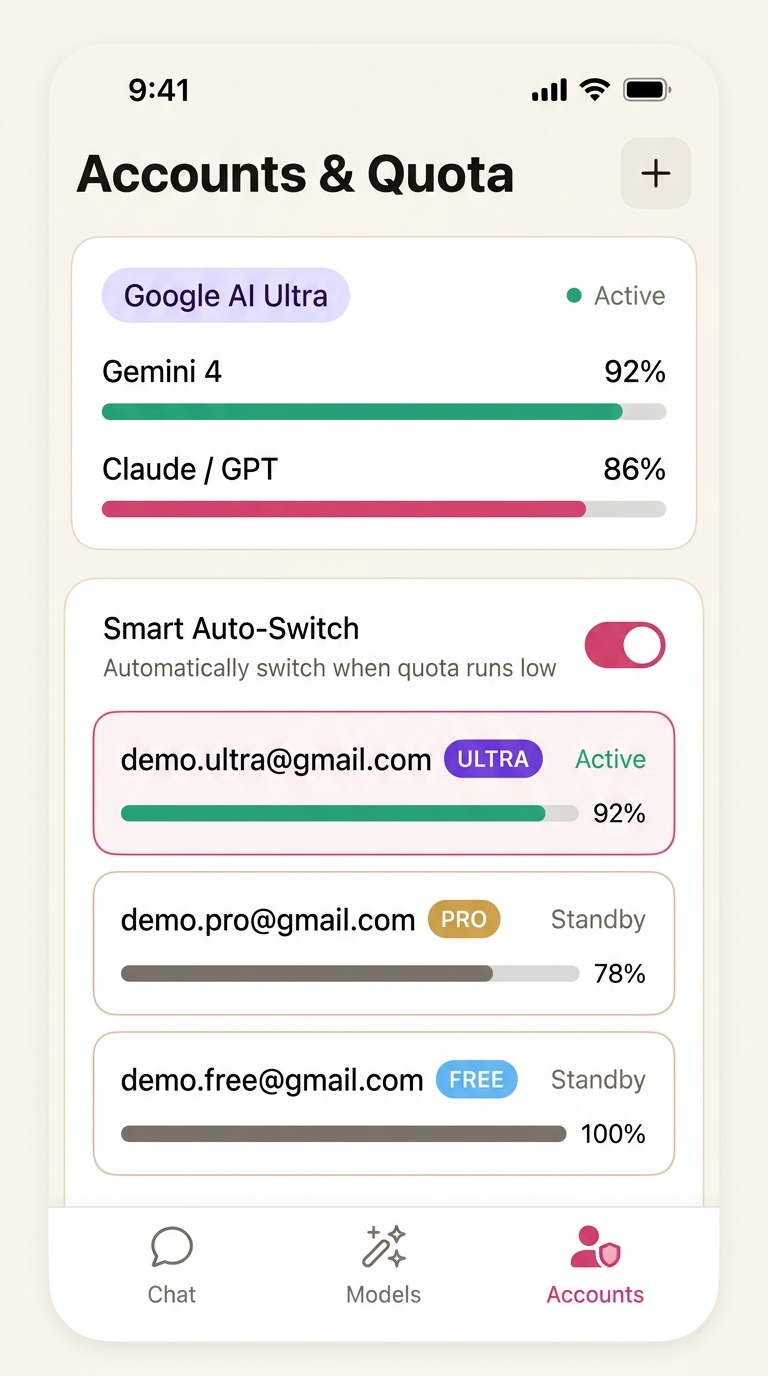
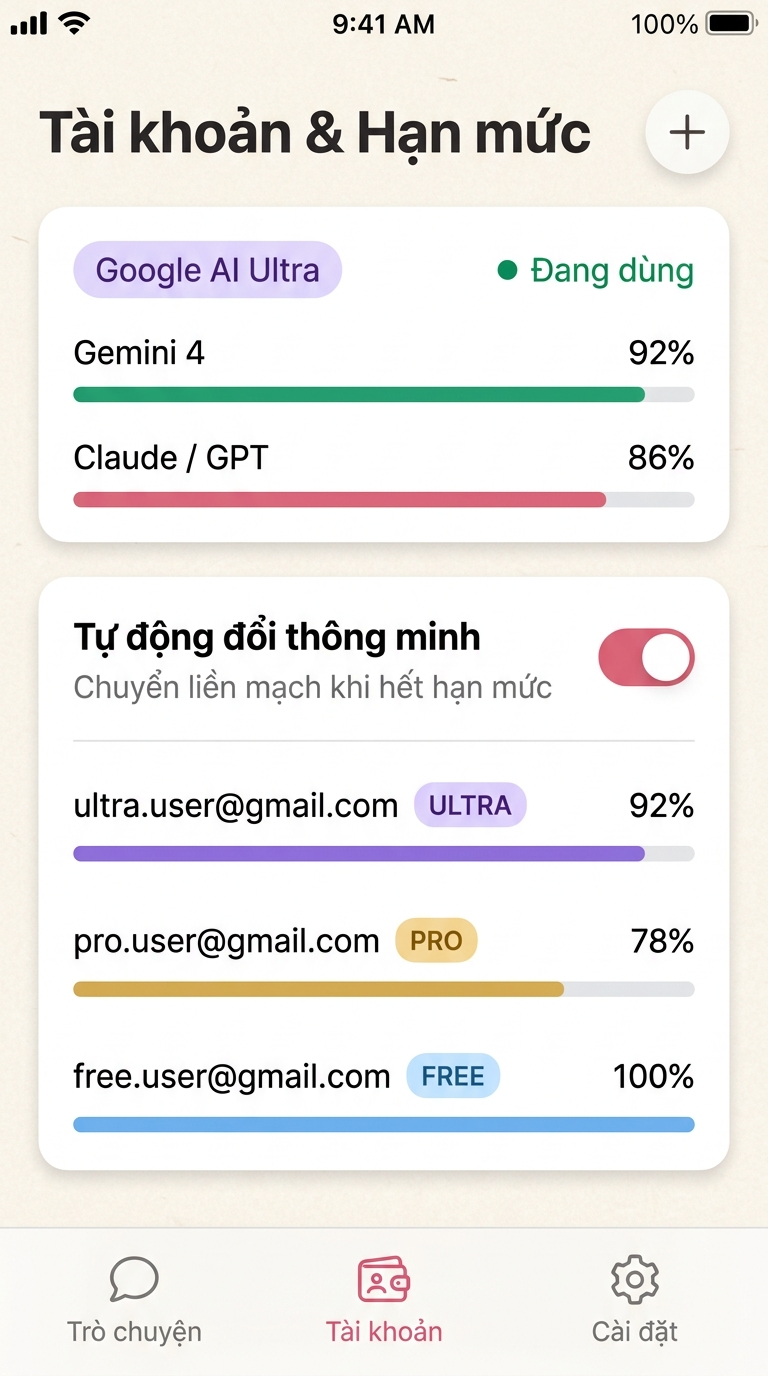
Release AnTiCLICode v4.2.0 (Build 22): Đổi tên sang AnTiCLICode, làm mới nội dung & phát hành thêm iPhone IPA (iOS 12+)

diff --git a/README.md b/README.md
@@ -1,76 +1,130 @@
 <div align="center">
 
-# ✨ Koda — Trợ Lý AI Di Động Cho Người Mới & Tự Động Đổi Tài Khoản Thông Minh
+<img src="screenshots/00-hero-anticlicode.jpg" alt="AnTiCLICode — Android & iOS 12+ Smart Multi-Account AI" width="100%" />
 
-**Cài đặt 1 chạm bằng tệp APK • Chạy độc lập không cần Termux • Không bị ngắt quãng hạn mức • Hỗ trợ 11 Ngôn ngữ • Mượt 60fps**
+<br />
 
-[![Tải APK v4.1.1](https://img.shields.io/badge/Tải_ngay-APK_v4.1.1_(9.29_MB)-D64572?style=for-the-badge&logo=android&logoColor=white)](https://github.com/sieudich/koda-ai-mobile/releases/download/v4.1.1/antigravity-code-mobile.apk)
-[![Android 7.0+](https://img.shields.io/badge/Android-7.0%2B_(ARM64)-16A34A?style=for-the-badge&logo=android&logoColor=white)](#hướng-dẫn-tải--cài-đặt-nhanh-3-bước)
-[![11 Ngôn ngữ](https://img.shields.io/badge/Ngôn_ngữ-11_Ngôn_ngữ-2563EB?style=for-the-badge)](#tính-năng-chính-của-ứng-dụng)
-[![Closed Source](https://img.shields.io/badge/Bản_quyền-Đóng_nguồn_•_Chỉ_APK-1E1A18?style=for-the-badge)](#bản-quyền--bảo-vệ-thành-phẩm)
+# ⚡ AnTiCLICode — Trợ Lý AI & Lập Trình Di Động Không Ngắt Quãng
+
+### **Cài đặt 1 chạm cho cả Android & iPhone (từ iPhone 6 iOS 12+) • Tự động đổi tài khoản thông minh 24/7 • Không cần Termux**
+
+<p>
+  <a href="https://github.com/sieudich/AnTiCLICode/releases/download/v4.2.0/antigravity-code-mobile.apk">
+    <img src="https://img.shields.io/badge/Tải_Android_APK-v4.2.0_(9.29_MB)-D64572?style=for-the-badge&logo=android&logoColor=white" alt="Tải AnTiCLICode Android APK" />
+  </a>
+  <a href="https://github.com/sieudich/AnTiCLICode/releases/download/v4.2.0/AnTiCLICode-iOS12+.ipa">
+    <img src="https://img.shields.io/badge/Tải_iPhone_IPA-iOS_12.0%2B_(16.98_MB)-111827?style=for-the-badge&logo=apple&logoColor=white" alt="Tải AnTiCLICode iPhone IPA" />
+  </a>
+</p>
+
+<p>
+  <img src="https://img.shields.io/badge/Tự_đổi_tài_khoản-Không_ngắt_quãng-16A34A?style=flat-square" alt="Auto Switch" />
+  <img src="https://img.shields.io/badge/Ngôn_ngữ-11_Ngôn_ngữ_Offline-2563EB?style=flat-square" alt="11 Languages" />
+  <img src="https://img.shields.io/badge/Hiệu_năng-Mượt_60fps-D97706?style=flat-square" alt="60fps" />
+  <img src="https://img.shields.io/badge/Bản_quyền-Đóng_nguồn_•_APK_%26_IPA-1E1A18?style=flat-square" alt="Closed Source" />
+</p>
+
+**[⬇ Tải nhanh Android & iPhone](#-tải-ngay-phiên-bản-mới-nhất-v420)** • **[📸 Xem giao diện](#-trải-nghiệm-giao-diện-thực-tế)** • **[🚀 Tính năng nổi bật](#-tính-năng-khiến-anticlicode-khác-biệt)** • **[🍎 Hướng dẫn cài iPhone](#-cài-đặt-cho-iphone--ipad-ios-120--ios-18)**
 
 </div>
 
 ---
 
-## 🎯 Koda dành cho ai?
+## 🎯 Tại sao bạn nên cài ngay AnTiCLICode?
 
-**Koda** được xây dựng chuyên biệt để:
-- 🌱 **Giúp người mới tập sử dụng AI** dễ dàng trò chuyện, học tập, viết code và làm việc ngay trên điện thoại với giao diện tiếng Việt trực quan, tối giản chỉ **3 tab đáy** (`Trò chuyện` • `Tài khoản` • `Cài đặt`), không cần cài đặt dòng lệnh phức tạp.
-- 🔄 **Tự động chuyển đổi tài khoản thông minh không bị ngắt quãng**: Khi tài khoản hiện tại hết hạn mức Gemini hoặc Claude, Koda tự động chuyển liền mạch sang nhóm mô hình còn hạn mức hoặc sang tài khoản dự phòng tiếp theo mà **giữ nguyên hoàn toàn ngữ cảnh cuộc trò chuyện** — không bị dừng giữa chừng!
+Bạn mới bắt đầu khám phá AI nhưng ngại cài dòng lệnh rườm rà? Hay bạn đang trò chuyện/viết code hăng say thì bị chặn vì **hết hạn mức (quota)** giữa chừng?
+
+**AnTiCLICode** sinh ra để giải quyết triệt để cả hai vấn đề đó ngay trên chiếc điện thoại của bạn:
+
+| Điểm nổi bật | Trải nghiệm thực tế với **AnTiCLICode** |
+| :--- | :--- |
+| 🌱 **Thân thiện tuyệt đối cho người mới** | Giao diện tiếng Việt tinh gọn chỉ **3 tab đáy** (`Trò chuyện` • `Tài khoản` • `Cài đặt`). Mở lên là hỏi AI, học tập, dịch thuật, phân tích ảnh và viết code ngay — **không cần biết dòng lệnh**. |
+| 🔄 **Tự động đổi tài khoản không ngắt quãng** | Thêm nhiều tài khoản Google (**Ultra / Pro / Free**). Khi một tài khoản hoặc nhóm mô hình chạm trần, AnTiCLICode tự chuyển sang mô hình/tài khoản dự phòng trong tích tắc mà **giữ nguyên mạch trò chuyện**! |
+| 🤖 **Android chạy độc lập 100%** | Chỉ cần cài duy nhất tệp **`.apk`** — **KHÔNG cần cài Termux**. Bấm 1 chạm tải lõi AI độc lập là dùng ngay. |
+| 🍎 **Hỗ trợ cả iPhone / iPad từ iOS 12.0+** | Phát hành chính thức tệp **`AnTiCLICode-iOS12+.ipa`** chạy mượt từ **iPhone 6 (iOS 12.5.7)** đến **iPhone 16 Pro (iOS 18+)**, kèm chế độ chia sẻ LAN 1 chạm từ Android sang iPhone! |
 
 ---
 
-## 📸 Hình ảnh giao diện thực tế
+## 📥 Tải ngay phiên bản mới nhất (`v4.2.0 — Build 22`)
 
-| 💬 Trò chuyện & Banner OTA cố định | 🔄 Đa tài khoản & Tự đổi thông minh | 🌐 Cài đặt 11 Ngôn ngữ & Độc lập | ✨ Hiệu ứng mở app 3D bún xu vàng |
+| Nền tảng | Tệp cài đặt chính thức | Thiết bị hỗ trợ | Kích thước | Tải trực tiếp |
+| :--- | :--- | :--- | :---: | :---: |
+| **🤖 Android** | `antigravity-code-mobile.apk` | Android 7.0+ (ARM64) — *Độc lập, không cần Termux* | `9.29 MB` | **[⬇ Tải APK ngay](https://github.com/sieudich/AnTiCLICode/releases/download/v4.2.0/antigravity-code-mobile.apk)** |
+| **🍎 iPhone / iPad** | `AnTiCLICode-iOS12+.ipa` | iOS 12.0 → iOS 18+ *(iPhone 5s, iPhone 6 → iPhone 16 & iPad)* | `16.98 MB` | **[⬇ Tải IPA ngay](https://github.com/sieudich/AnTiCLICode/releases/download/v4.2.0/AnTiCLICode-iOS12+.ipa)** |
+
+> 💡 **Ghi chú dành cho người dùng iPhone / iPad**: Vì Apple giới hạn chạy tiến trình CLI ngầm trong sandbox iOS, ứng dụng **AnTiCLICode iOS** kết nối siêu tốc qua Wi-Fi LAN (hoặc Tailscale/Tunnel) tới cầu nối của **AnTiCLICode Android** (bật 1 công tắc *Chia sẻ LAN* trong Cài đặt) hoặc máy tính/VPS của bạn.
+
+---
+
+## 📸 Trải nghiệm giao diện thực tế
+
+| 💬 Trò chuyện & Banner OTA cố định | 🔄 Đa tài khoản & Tự đổi thông minh | 🌐 11 Ngôn ngữ & Chạy độc lập | ✨ Intro 3D bún đồng xu vàng |
 | :---: | :---: | :---: | :---: |
-| ![Trò chuyện Koda](screenshots/01-chat-beginner.jpg) | ![Tài khoản thông minh](screenshots/02-smart-accounts.jpg) | ![Cài đặt 11 ngôn ngữ](screenshots/03-settings-11langs.jpg) | ![Intro 3D Koda](screenshots/04-intro-3d-coin.jpg) |
+| ![Trò chuyện AnTiCLICode](screenshots/01-chat-beginner.jpg) | ![Tài khoản thông minh](screenshots/02-smart-accounts.jpg) | ![Cài đặt 11 ngôn ngữ](screenshots/03-settings-11langs.jpg) | ![Intro 3D AnTiCLICode](screenshots/04-intro-3d-coin.jpg) |
 
 ---
 
-## 🚀 Tính năng chính của ứng dụng
+## 🚀 Tính năng khiến AnTiCLICode khác biệt
 
-### 1. 🔄 Tự động chuyển đổi đa tài khoản thông minh (Không ngắt quãng)
-- Liên kết nhiều tài khoản Google (**Ultra / Pro / Enterprise / Free**) ngay trong tab **Tài khoản**.
-- **Ưu tiên gói cao trước gói thấp**: Tự động ưu tiên Ultra/Pro trước Free; khi đổi giữa các tài khoản Pro/Ultra luôn **bảo toàn đúng mô hình Pro & mức suy luận** bạn yêu thích.
-- **Tự thích ứng thông minh cho tài khoản Free**: Chỉ hiển thị đúng các mô hình tài khoản Free hỗ trợ và tự chọn mô hình mạnh nhất theo thứ tự **Gemini → Claude → GPT**.
-- **Phân biệt chuẩn lỗi quá tải máy chủ (503) với hết hạn mức (429)**: Không đánh dấu sai tài khoản hết hạn mức khi máy chủ chỉ quá tải tạm thời, đồng thời chống vòng lặp chuyển qua lại.
-- **Chống treo AI khi chat lâu**: Chủ động làm mới xác thực OAuth ở nền trước khi hết hạn 1 giờ và tích hợp bộ canh chống treo (Anti-Stall Watchdog) tự nối lại tức thì nếu kết nối di động bị gián đoạn.
+### 1. 🔄 Động cơ xoay vòng đa tài khoản thông minh (Zero-Interruption)
+- **Tự ưu tiên gói mạnh nhất**: Luôn ưu tiên tài khoản **Ultra / Pro** trước **Free**; tự động bảo toàn đúng mô hình Pro và mức suy luận yêu thích khi luân chuyển giữa các tài khoản trả phí.
+- **Tự tối ưu cho tài khoản Free**: Tự lọc hiển thị chính xác các mô hình khả dụng và chọn mức suy luận mạnh nhất theo thứ tự **Gemini → Claude → GPT**.
+- **Nhận diện chuẩn lỗi máy chủ**: Phân biệt rõ lỗi quá tải tạm thời (**HTTP 503**) với hết hạn mức tài khoản (**HTTP 429**), chống đánh dấu nhầm và chống lặp qua lại vô ích.
+- **Bền bỉ khi chat tác vụ dài**: Chủ động gia hạn phiên OAuth dưới nền trước khi hết hạn 1 giờ + bộ canh chống treo (**Anti-Stall Watchdog**) tự nối lại ngay nếu đổi Wi-Fi / 4G.
 
-### 2. ⚡ Chạy độc lập 100% — Không cần Termux
-- Cài trực tiếp tệp **`antigravity-code-mobile.apk`** là chạy được ngay trên Android (ARM64, Android 7.0+).
-- Nút **1 chạm tải lõi AI độc lập** ngay trong ứng dụng — không cần cài hay mở Termux.
-- Tích hợp **Chia sẻ LAN cho iPhone / iPad (iOS 12+)**: Bật 1 công tắc trong Cài đặt là máy iPhone/iPad cùng Wi-Fi có thể kết nối mượt qua Safari (hoặc app iOS) với đường dẫn 1 chạm tự nhập Token.
+### 2. ⚡ Chạy độc lập trên Android + Đồng bộ 1 chạm sang iPhone / iPad
+- **Android**: Đóng gói gọn nhẹ lõi native **Rust ARM64**, tải lõi AI 1 chạm trong app — không phụ thuộc Termux.
+- **iPhone / iPad (iOS 12.0+)**: Viết thuần **UIKit + WKWebView + WebSocket RFC 6455 trên TCP Stream** giúp chạy mượt mà ngay cả trên **iPhone 6 chạy iOS 12.5.7** cũng như các dòng iPhone mới nhất.
 
-### 3. 🌐 Hỗ trợ 11 Ngôn ngữ giao diện & Ngôn ngữ AI trả lời
-Chuyển đổi tức thì (**offline < 5ms**) ngay trong tab **Cài đặt**:
-> 🇻🇳 Tiếng Việt • 🇺🇸 English • 🇯🇵 日本語 • 🇰🇷 한국어 • 🇨🇳 简体中文 • 🇹🇼 繁體中文 • 🇫🇷 Français • 🇩🇪 Deutsch • 🇪🇸 Español • 🇷🇺 Русский • 🇹🇭 ไทย
+### 3. 🌐 11 Ngôn ngữ giao diện & Đa phong cách cá nhân hóa
+- Chuyển ngôn ngữ tức thì (**offline < 5ms**):
+  > 🇻🇳 Tiếng Việt • 🇺🇸 English • 🇯🇵 日本語 • 🇰🇷 한국어 • 🇨🇳 简体中文 • 🇹🇼 繁體中文 • 🇫🇷 Français • 🇩🇪 Deutsch • 🇪🇸 Español • 🇷🇺 Русский • 🇹🇭 ไทย
+- **4 chủ đề thiết kế thủ công mượt 60fps**: `Washi` (giấy kem dịu mắt), `Sakura` (hoa anh đào), `Sumi` (mực tối), `OLED` (đen sâu tiết kiệm pin) — kèm hỗ trợ hình nền ảnh/video động, khung avatar động và tùy chỉnh tên hiển thị.
 
-Có tùy chọn để AI tự trả lời **theo ngôn ngữ ứng dụng đang chọn** hoặc **tự động theo ngôn ngữ bạn nhắn**.
-
-### 4. 🔔 Cập nhật OTA thông minh (Hiển thị ngay & không tự mất)
-- Khi có phiên bản mới (OTA giao diện hoặc bản APK mới), banner thông báo cập nhật sẽ **hiển thị ngay lập tức trên đầu màn hình**.
-- **Luôn giữ cố định không tự biến mất** dù bạn chuyển tab hay mở lại ứng dụng — chỉ đóng khi bạn chủ động bấm nút **`×`** hoặc hoàn tất cập nhật.
-
-### 5. 🎨 Giao diện chuẩn 60fps & Cá nhân hóa sâu
-- **4 chủ đề phong cách Nhật**: Giấy Nhật (*Washi*), Anh Đào (*Sakura*), Mực Đêm (*Sumi*), Đen OLED (*Obsidian*) + tùy chỉnh màu nhấn, nền ảnh/video 60fps và cỡ chữ.
-- **Hiệu ứng mở đầu 3D bún đồng xu vàng** mang avatar/GIF riêng & khung avatar động.
-- **Công cụ làm việc mạnh mẽ**: Hỗ trợ đính kèm nhiều ảnh/tệp, trình xem & cắt ảnh tích hợp, chế độ lập kế hoạch (`/plan`), tăng tốc tư duy (`/boost`), trình duyệt AI (`/browser`), kỹ năng (`Skills`) và lưu lịch sử trò chuyện theo thư mục làm việc.
+### 4. 🔔 Thông báo cập nhật OTA cố định & Trợ thủ lập trình toàn năng
+- **Banner OTA không bao giờ bỏ lỡ**: Ngay khi có bản cập nhật mới hơn, thanh thông báo hiển thị trực tiếp ở màn hình chính và **không tự biến mất** cho tới khi bạn bấm dấu `×`.
+- **Bộ công cụ làm việc thực chiến**: Đính kèm nhiều ảnh/tệp, trình xem & cắt ảnh tích hợp, chế độ lập kế hoạch (`/plan`), tăng tốc tư duy sâu (`/boost`), trình duyệt AI trực tiếp (`/browser`), hệ thống kỹ năng (`Skills`) và quản lý lịch sử chat theo thư mục dự án.
 
 ---
 
-## 📥 Hướng dẫn tải & cài đặt nhanh (3 bước)
+## 🛠 Hướng dẫn cài đặt siêu tốc
 
-1. **Tải tệp APK chính thức**:
-   👉 **[Tải antigravity-code-mobile.apk (v4.1.1 — 9.29 MB)](https://github.com/sieudich/koda-ai-mobile/releases/download/v4.1.1/antigravity-code-mobile.apk)**
-2. Mở tệp APK vừa tải trên điện thoại Android → cho phép **Cài đặt từ nguồn này** (nếu máy hỏi) → bấm **Cài đặt**.
-3. Mở **Koda** → chọn **Tải lõi AI độc lập ngay** (chỉ 1 lần đầu) → đăng nhập tài khoản Google trong tab **Tài khoản** và bắt đầu trò chuyện!
+### 🤖 Cài đặt cho Android (3 bước — 1 phút xong ngay)
+1. **Tải tệp APK chính thức**: 👉 **[antigravity-code-mobile.apk (v4.2.0 — 9.29 MB)](https://github.com/sieudich/AnTiCLICode/releases/download/v4.2.0/antigravity-code-mobile.apk)**
+2. Mở tệp vừa tải → cho phép **Cài đặt từ nguồn này** (nếu máy hỏi) → bấm **Cài đặt**.
+3. Mở **AnTiCLICode** → chọn **Tải lõi AI độc lập ngay** (chỉ 1 lần đầu) → đăng nhập tài khoản Google tại tab **Tài khoản** và bắt đầu sử dụng!
 
-### Xác minh toàn vẹn tệp tải về
-| Tệp phát hành | Phiên bản | Kích thước | Mã kiểm tra SHA-256 |
-| :--- | :---: | :---: | :--- |
[1 lines of base64/hex data omitted]
+---
+
+### 🍎 Cài đặt cho iPhone / iPad (iOS 12.0 → iOS 18+)
+
+#### ✅ Cách 1: Cài app Native `AnTiCLICode-iOS12+.ipa` KHÔNG cần Jailbreak *(Khuyên dùng)*
+Tương thích hoàn hảo từ **iPhone 6 (iOS 12.5.7)** đến **iPhone 16 (iOS 18+)** qua **Sideloadly**, **AltStore**, **ESign** hoặc **Scarlet**:
+
+1. Tải tệp **[AnTiCLICode-iOS12+.ipa (16.98 MB)](https://github.com/sieudich/AnTiCLICode/releases/download/v4.2.0/AnTiCLICode-iOS12+.ipa)** về máy tính (Windows / Mac) hoặc trực tiếp lên iPhone (nếu dùng ESign / Scarlet).
+2. Trên máy tính, mở **[Sideloadly](https://sideloadly.io/)** (miễn phí, hỗ trợ chuẩn cả iOS 12.5.7) → cắm cáp nối iPhone → kéo thả tệp `AnTiCLICode-iOS12+.ipa` vào → nhập Apple ID bất kỳ → bấm **Start**.
+3. Trên iPhone vào **Cài đặt → Cài đặt chung → Quản lý thiết bị / VPN & Thiết bị** → chọn email Apple ID vừa ký → bấm **Tin cậy (Trust)**.
+4. Mở **AnTiCLICode** ngoài màn hình chính → bật **Chia sẻ LAN** trên máy Android (hoặc chạy cầu nối trên PC) → nhập **IP LAN** (ví dụ `192.168.1.10`), cổng `8787` và **Token** là kết nối mượt ngay!
+
+#### 🔓 Cách 2: Máy đã Jailbreak hoặc có TrollStore *(Cài vĩnh viễn — không hết hạn 7 ngày)*
+1. Tải trực tiếp **[AnTiCLICode-iOS12+.ipa](https://github.com/sieudich/AnTiCLICode/releases/download/v4.2.0/AnTiCLICode-iOS12+.ipa)** bằng Safari trên iPhone.
+2. Mở tệp bằng **TrollStore** (iOS 14.0–17.0) hoặc **Filza File Manager** (đã cài **AppSync Unified** trên iOS 12–16) → bấm **Cài đặt (Install)** là dùng vĩnh viễn!
+
+#### ⚡ Cách 3: Dùng ngay sau 30 giây KHÔNG cần máy tính (Safari PWA)
+1. Bật **Chia sẻ LAN cho iPhone / iPad** trong tab *Cài đặt* của **AnTiCLICode** trên Android.
+2. Mở đường dẫn hiển thị (ví dụ `http://192.168.1.10:8787/`) bằng **Safari** trên iPhone.
+3. Chạm nút **Chia sẻ (↑)** → chọn **Thêm vào MH chính (Add to Home Screen)** → mở ứng dụng **AnTiCLICode** toàn màn hình như app gốc!
+
+---
+
+## 🔐 Xác minh toàn vẹn tệp tải về (SHA-256)
+
+| Tệp phát hành | Nền tảng | Phiên bản | Kích thước | Mã kiểm tra SHA-256 |
+| :--- | :---: | :---: | :---: | :--- |
[2 lines of base64/hex data omitted]
+
+Tệp tổng hợp mã kiểm tra: [`SHA256SUMS.txt`](https://github.com/sieudich/AnTiCLICode/releases/download/v4.2.0/SHA256SUMS.txt)
 
 ---
 
@@ -78,13 +132,13 @@ Có tùy chọn để AI tự trả lời **theo ngôn ngữ ứng dụng đang 
 
 > **⚠ LƯU Ý BẢN QUYỀN (PROPRIETARY CLOSED-SOURCE — ALL RIGHTS RESERVED)**
 >
-> Kho lưu trữ này **chỉ phát hành tệp APK cài đặt cho người dùng cuối** — **KHÔNG công khai mã nguồn**.
+> Kho lưu trữ này **chỉ phát hành tệp cài đặt chính thức (`.apk` cho Android & `.ipa` cho iPhone/iPad)** dành cho người dùng cuối — **KHÔNG công khai mã nguồn**.
 >
-> - Tệp APK được bảo vệ bởi **kho mã hóa ChaCha20-Poly1305 gắn chặt với chữ ký số SHA-256 gốc**, lõi kiểm tra toàn vẹn thời gian thực chống sửa đổi / đóng gói lại / gắn debugger / hook (Frida, Xposed, LSPosed, MT Manager...).
-> - **Nghiêm cấm tuyệt đối** hành vi sao chép, phân phối bản chỉnh sửa, dịch ngược APK, bóc tách tài nguyên hoặc sử dụng AI / công cụ tự động để khám phá, sao chép, tái tạo lại ứng dụng này. Xem chi tiết tại [LICENSE](LICENSE).
+> - Tệp Android APK được bảo vệ bởi **kho mã hóa ChaCha20-Poly1305 gắn chặt với chữ ký số SHA-256 gốc**, lõi kiểm tra toàn vẹn thời gian thực chống sửa đổi / đóng gói lại / gắn debugger / hook (Frida, Xposed, LSPosed, MT Manager...).
+> - **Nghiêm cấm tuyệt đối** hành vi sao chép, phân phối bản chỉnh sửa, dịch ngược APK/IPA, bóc tách tài nguyên hoặc sử dụng AI / công cụ tự động để sao chép, tái tạo lại **AnTiCLICode**. Xem chi tiết tại [LICENSE](LICENSE).
 
 ---
 
 <div align="center">
-  <sub>Phát triển bởi <b>Kanami × Kanika</b> • Bảo lưu mọi quyền (All Rights Reserved)</sub>
+  <sub>Phát triển bởi <b>AnTiCLICode • Kanami × Kanika</b> • Bảo lưu mọi quyền (All Rights Reserved)</sub>
 </div>
